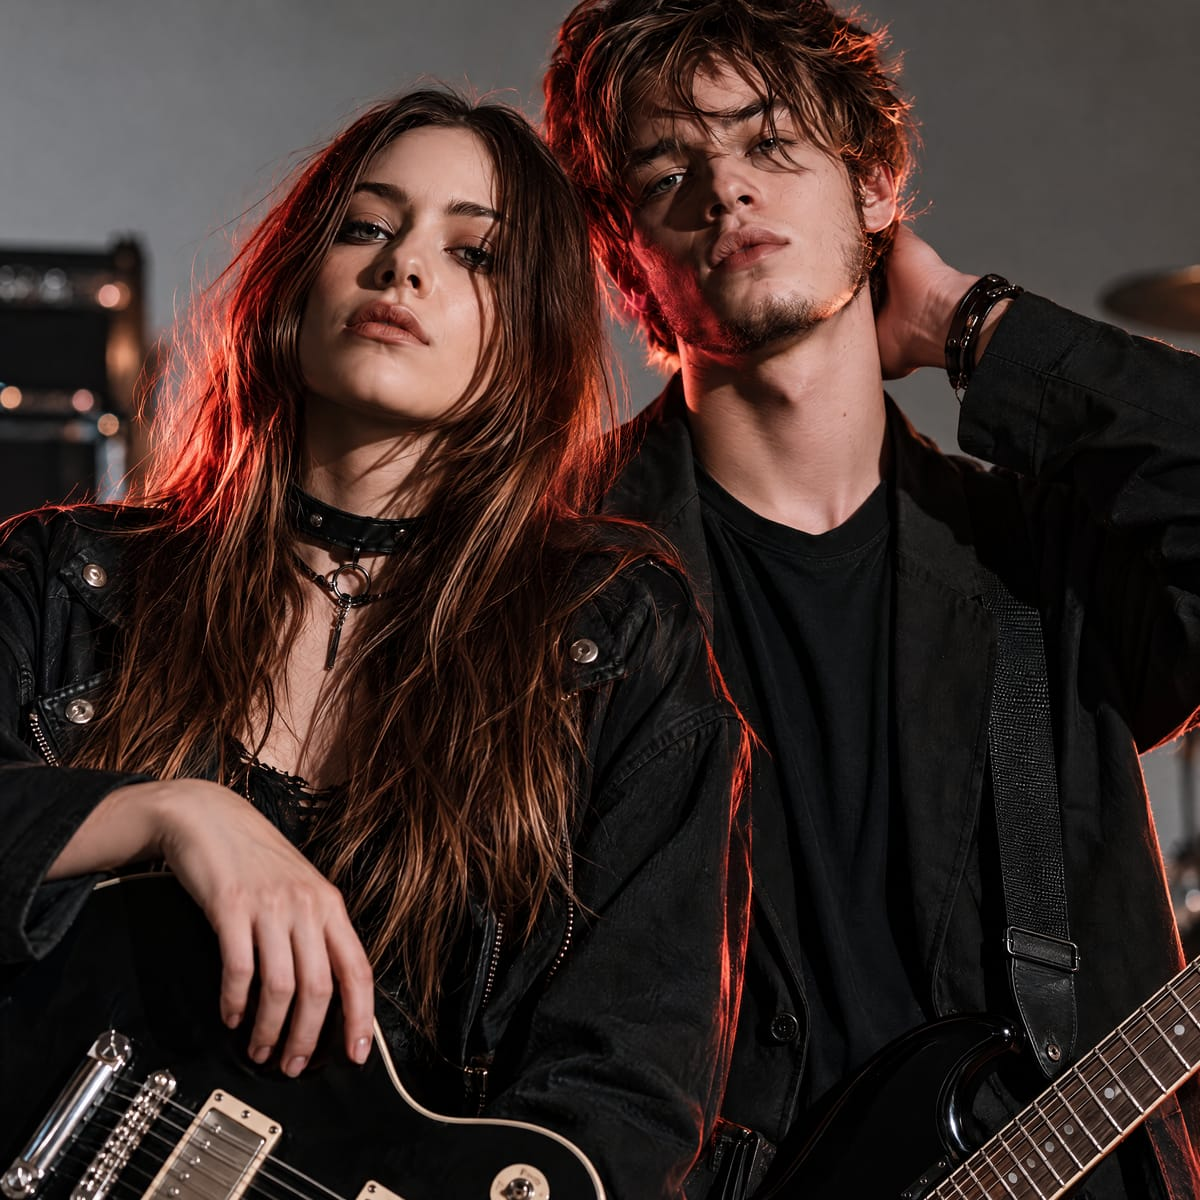
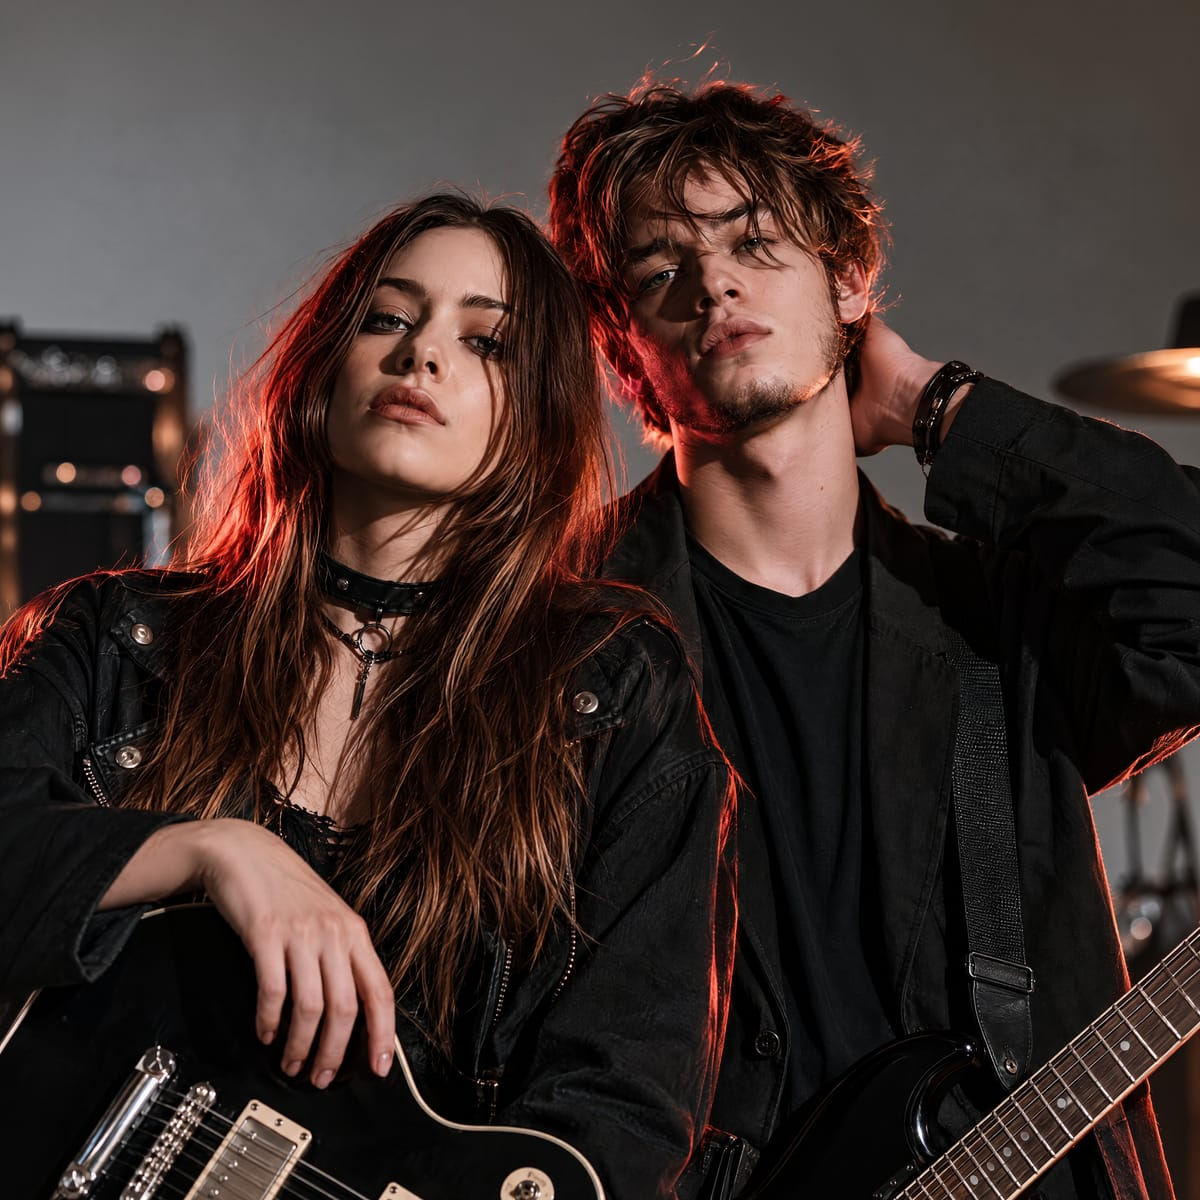
Roster: add Thando Keys (39 artists); new Neilly Storm and Throne Static photos
Matches their squaredrum.com cards. Thando links to his new artist page.

diff --git a/src/lib/station.ts b/src/lib/station.ts
@@ -102,7 +102,7 @@ export const CHANNELS: Channel[] = [
  * headline numbers, not an inventory.
  */
 export const CATALOGUE = {
-  artists: "38",
+  artists: "39",
   songs: "3,200+",
 } as const;
 
@@ -134,6 +134,7 @@ export const ROSTER: Artist[] = [
   { slug: "sadie-colton", name: "Sadie Colton", lane: "Country", portrait: "/roster/sadie-colton.jpg", square: "/roster/sadie-colton-square.jpg" },
   { slug: "cedar-line", name: "Cedar Line", lane: "Country", portrait: "/roster/cedar-line.jpg", square: "/roster/cedar-line-square.jpg" },
   { slug: "deejay-zethu", name: "Deejay Zethu", lane: "Amapiano", portrait: "/roster/deejay-zethu.jpg", square: "/roster/deejay-zethu-square.jpg" },
+  { slug: "thando-keys", name: "Thando Keys", lane: "Amapiano", portrait: "/roster/thando-keys.jpg", square: "/roster/thando-keys-square.jpg" },
   { slug: "yano-sky", name: "Yano Sky", lane: "Afro House / Jazz", portrait: "/roster/yano-sky.jpg", square: "/roster/yano-sky-square.jpg" },
   { slug: "elkana", name: "Elkana", lane: "Trap", portrait: "/roster/elkana.jpg", square: "/roster/elkana-square.jpg" },
   { slug: "vxnti", name: "VXNTI", lane: "Trap", portrait: "/roster/vxnti.jpg", square: "/roster/vxnti-square.jpg" },
@@ -145,7 +146,7 @@ export const ROSTER: Artist[] = [
   { slug: "virgo-dunstan", name: "Virgo Dunstan", lane: "R&B / Pop", portrait: "/roster/virgo-dunstan.jpg", square: "/roster/virgo-dunstan-square.jpg" },
   { slug: "j-cruz", name: "J Cruz", lane: "Pop", portrait: "/roster/j-cruz.jpg", square: "/roster/j-cruz-square.jpg" },
   { slug: "lunah", name: "Lunah", lane: "R&B / Pop", portrait: "/roster/lunah.jpg", square: "/roster/lunah-square.jpg" },
-  { slug: "neilly-storm", name: "Neilly Storm", lane: "Pop / Alt Pop", portrait: "/roster/neilly-storm.jpg" },
+  { slug: "neilly-storm", name: "Neilly Storm", lane: "Pop / Alt Pop", portrait: "/roster/neilly-storm.jpg", square: "/roster/neilly-storm-square.jpg" },
   { slug: "lucas-meno", name: "Lucas Meno", lane: "R&B", portrait: "/roster/lucas-meno.jpg", square: "/roster/lucas-meno-square.jpg" },
   // Added Oct 2026 from the catalogue's IMAGES folders (scripts/roster-portraits.mjs).
   // Lanes are their imprints' genres.

diff --git a/src/app/about/page.tsx b/src/app/about/page.tsx
@@ -7,7 +7,7 @@ import styles from "./page.module.css";
 export const metadata: Metadata = {
   title: "About",
   description:
-    "Musicsquare Radio is a 24/7 station playing AI-made, human-assisted music across seventeen genres and several languages — over 3,200 songs from 38 artists. Operated by Squaredrum LLC, founded 2024.",
+    "Musicsquare Radio is a 24/7 station playing AI-made, human-assisted music across seventeen genres and several languages — over 3,200 songs from 39 artists. Operated by Squaredrum LLC, founded 2024.",
 };
 
 export default function AboutPage() {
